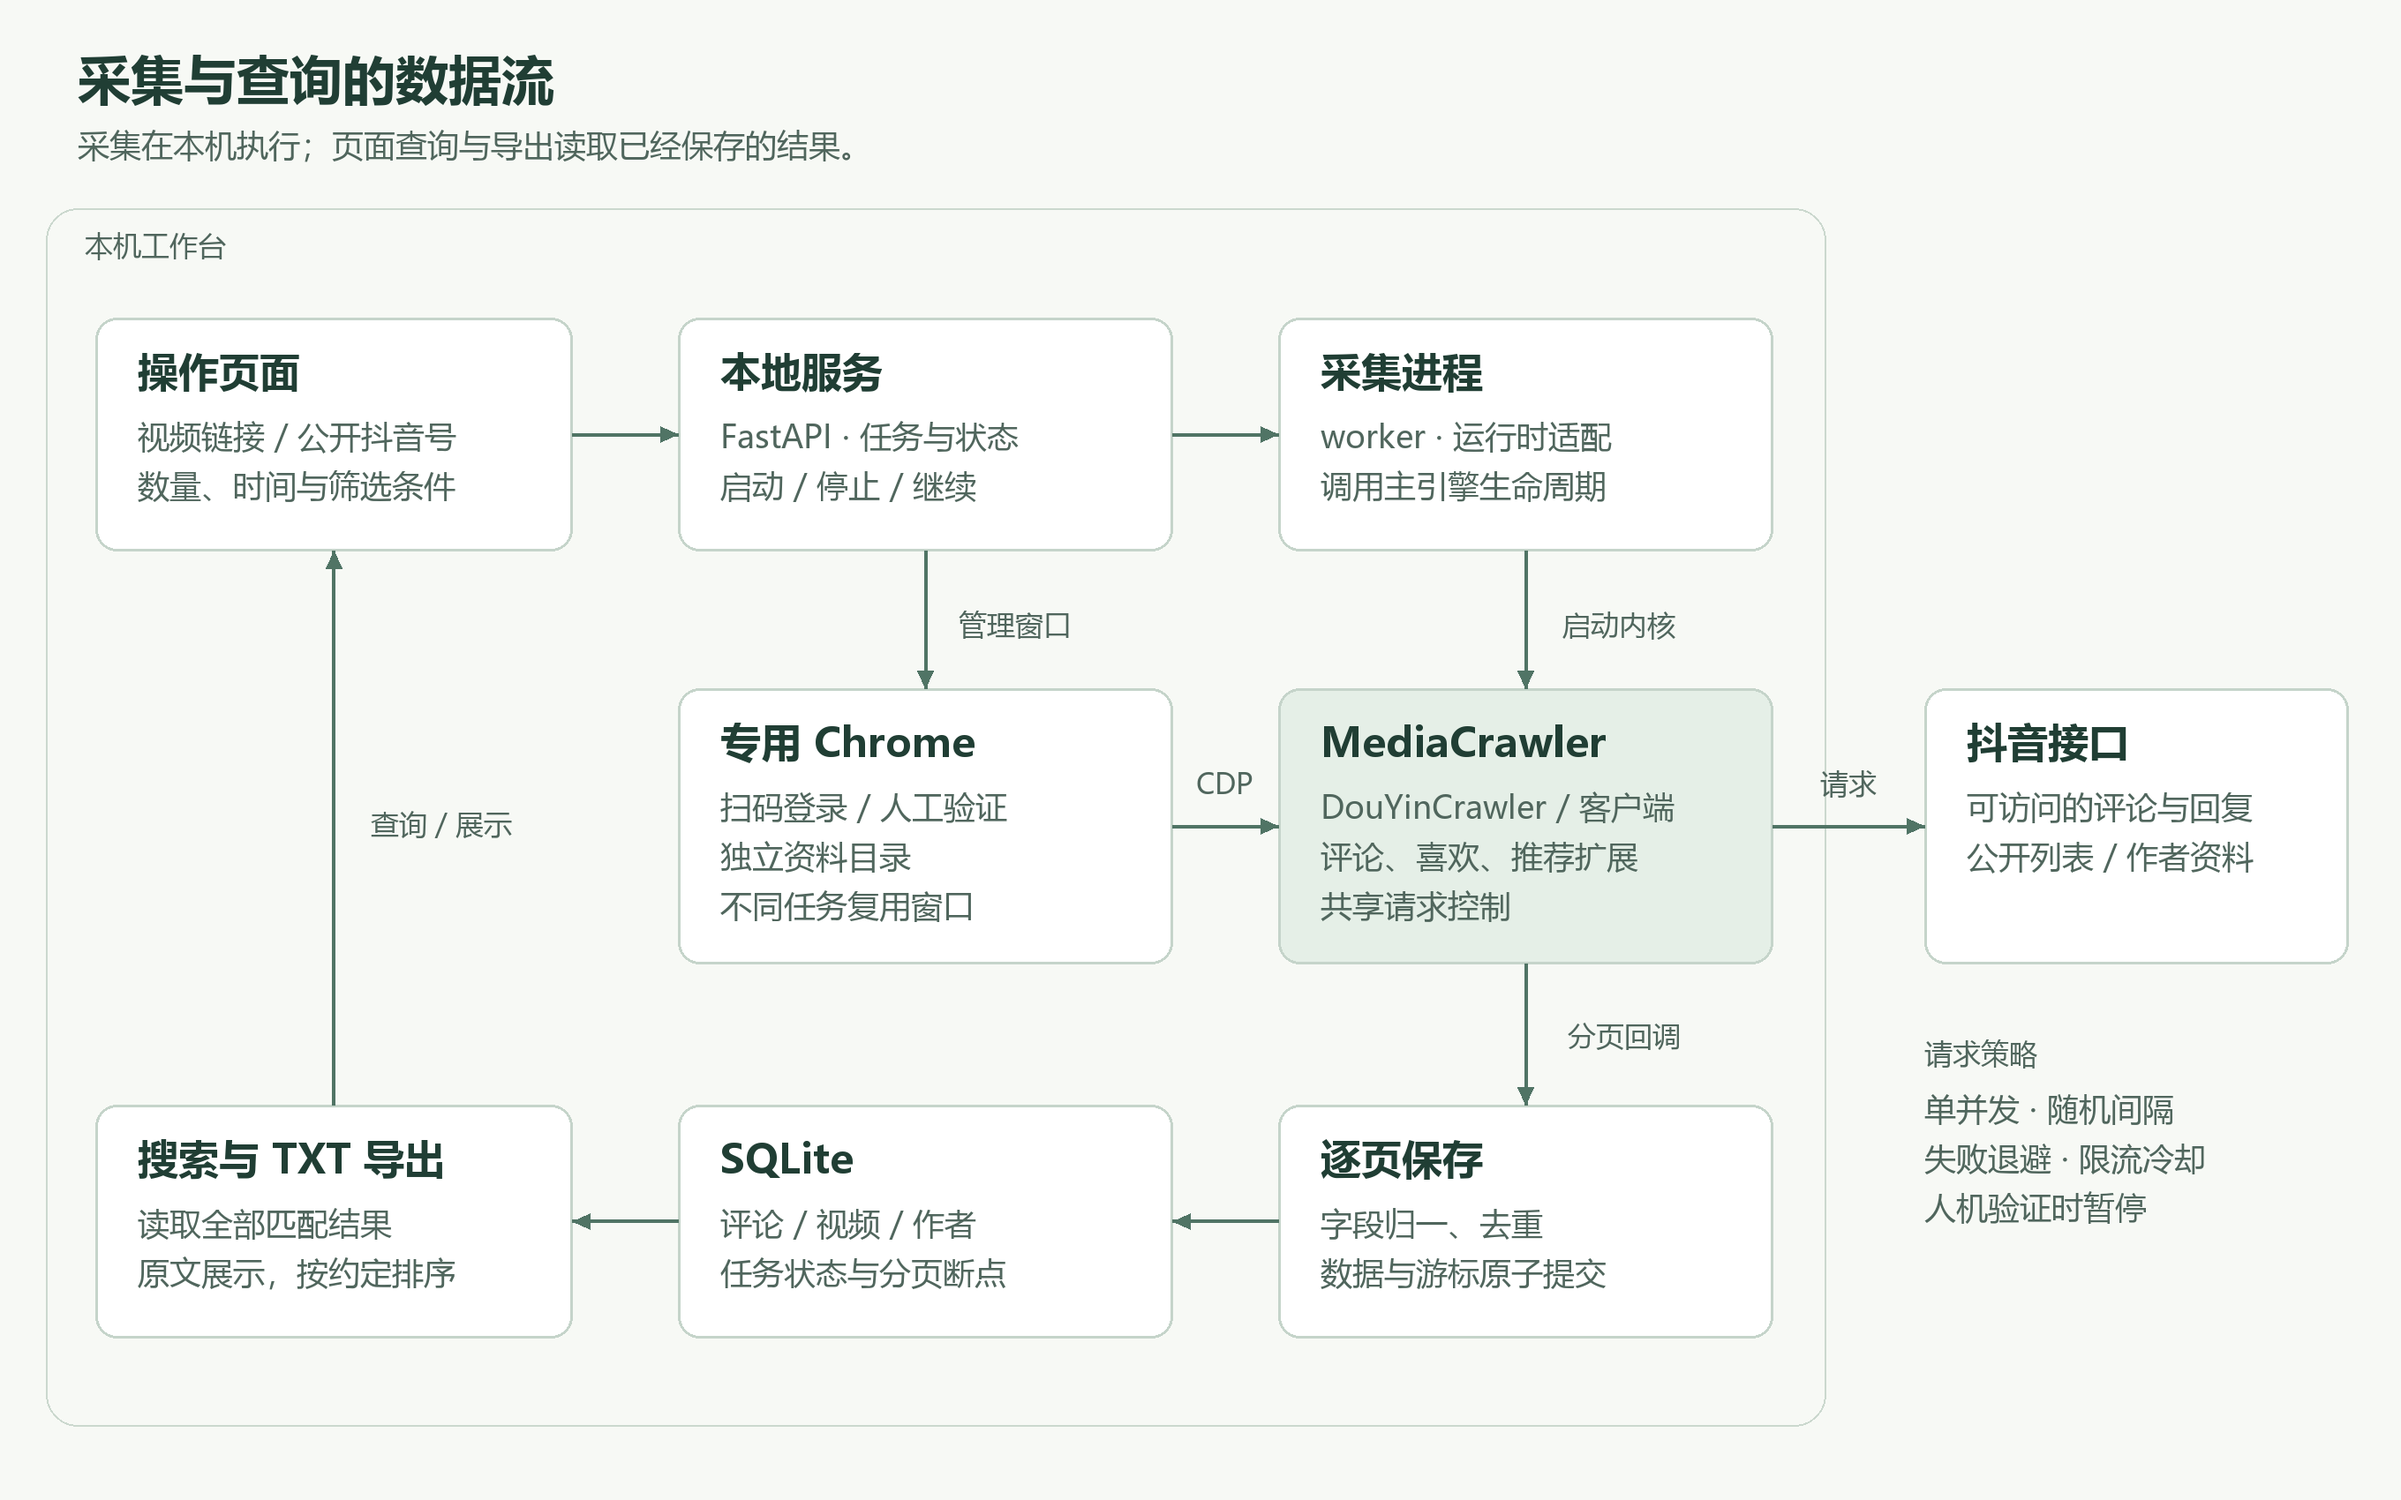
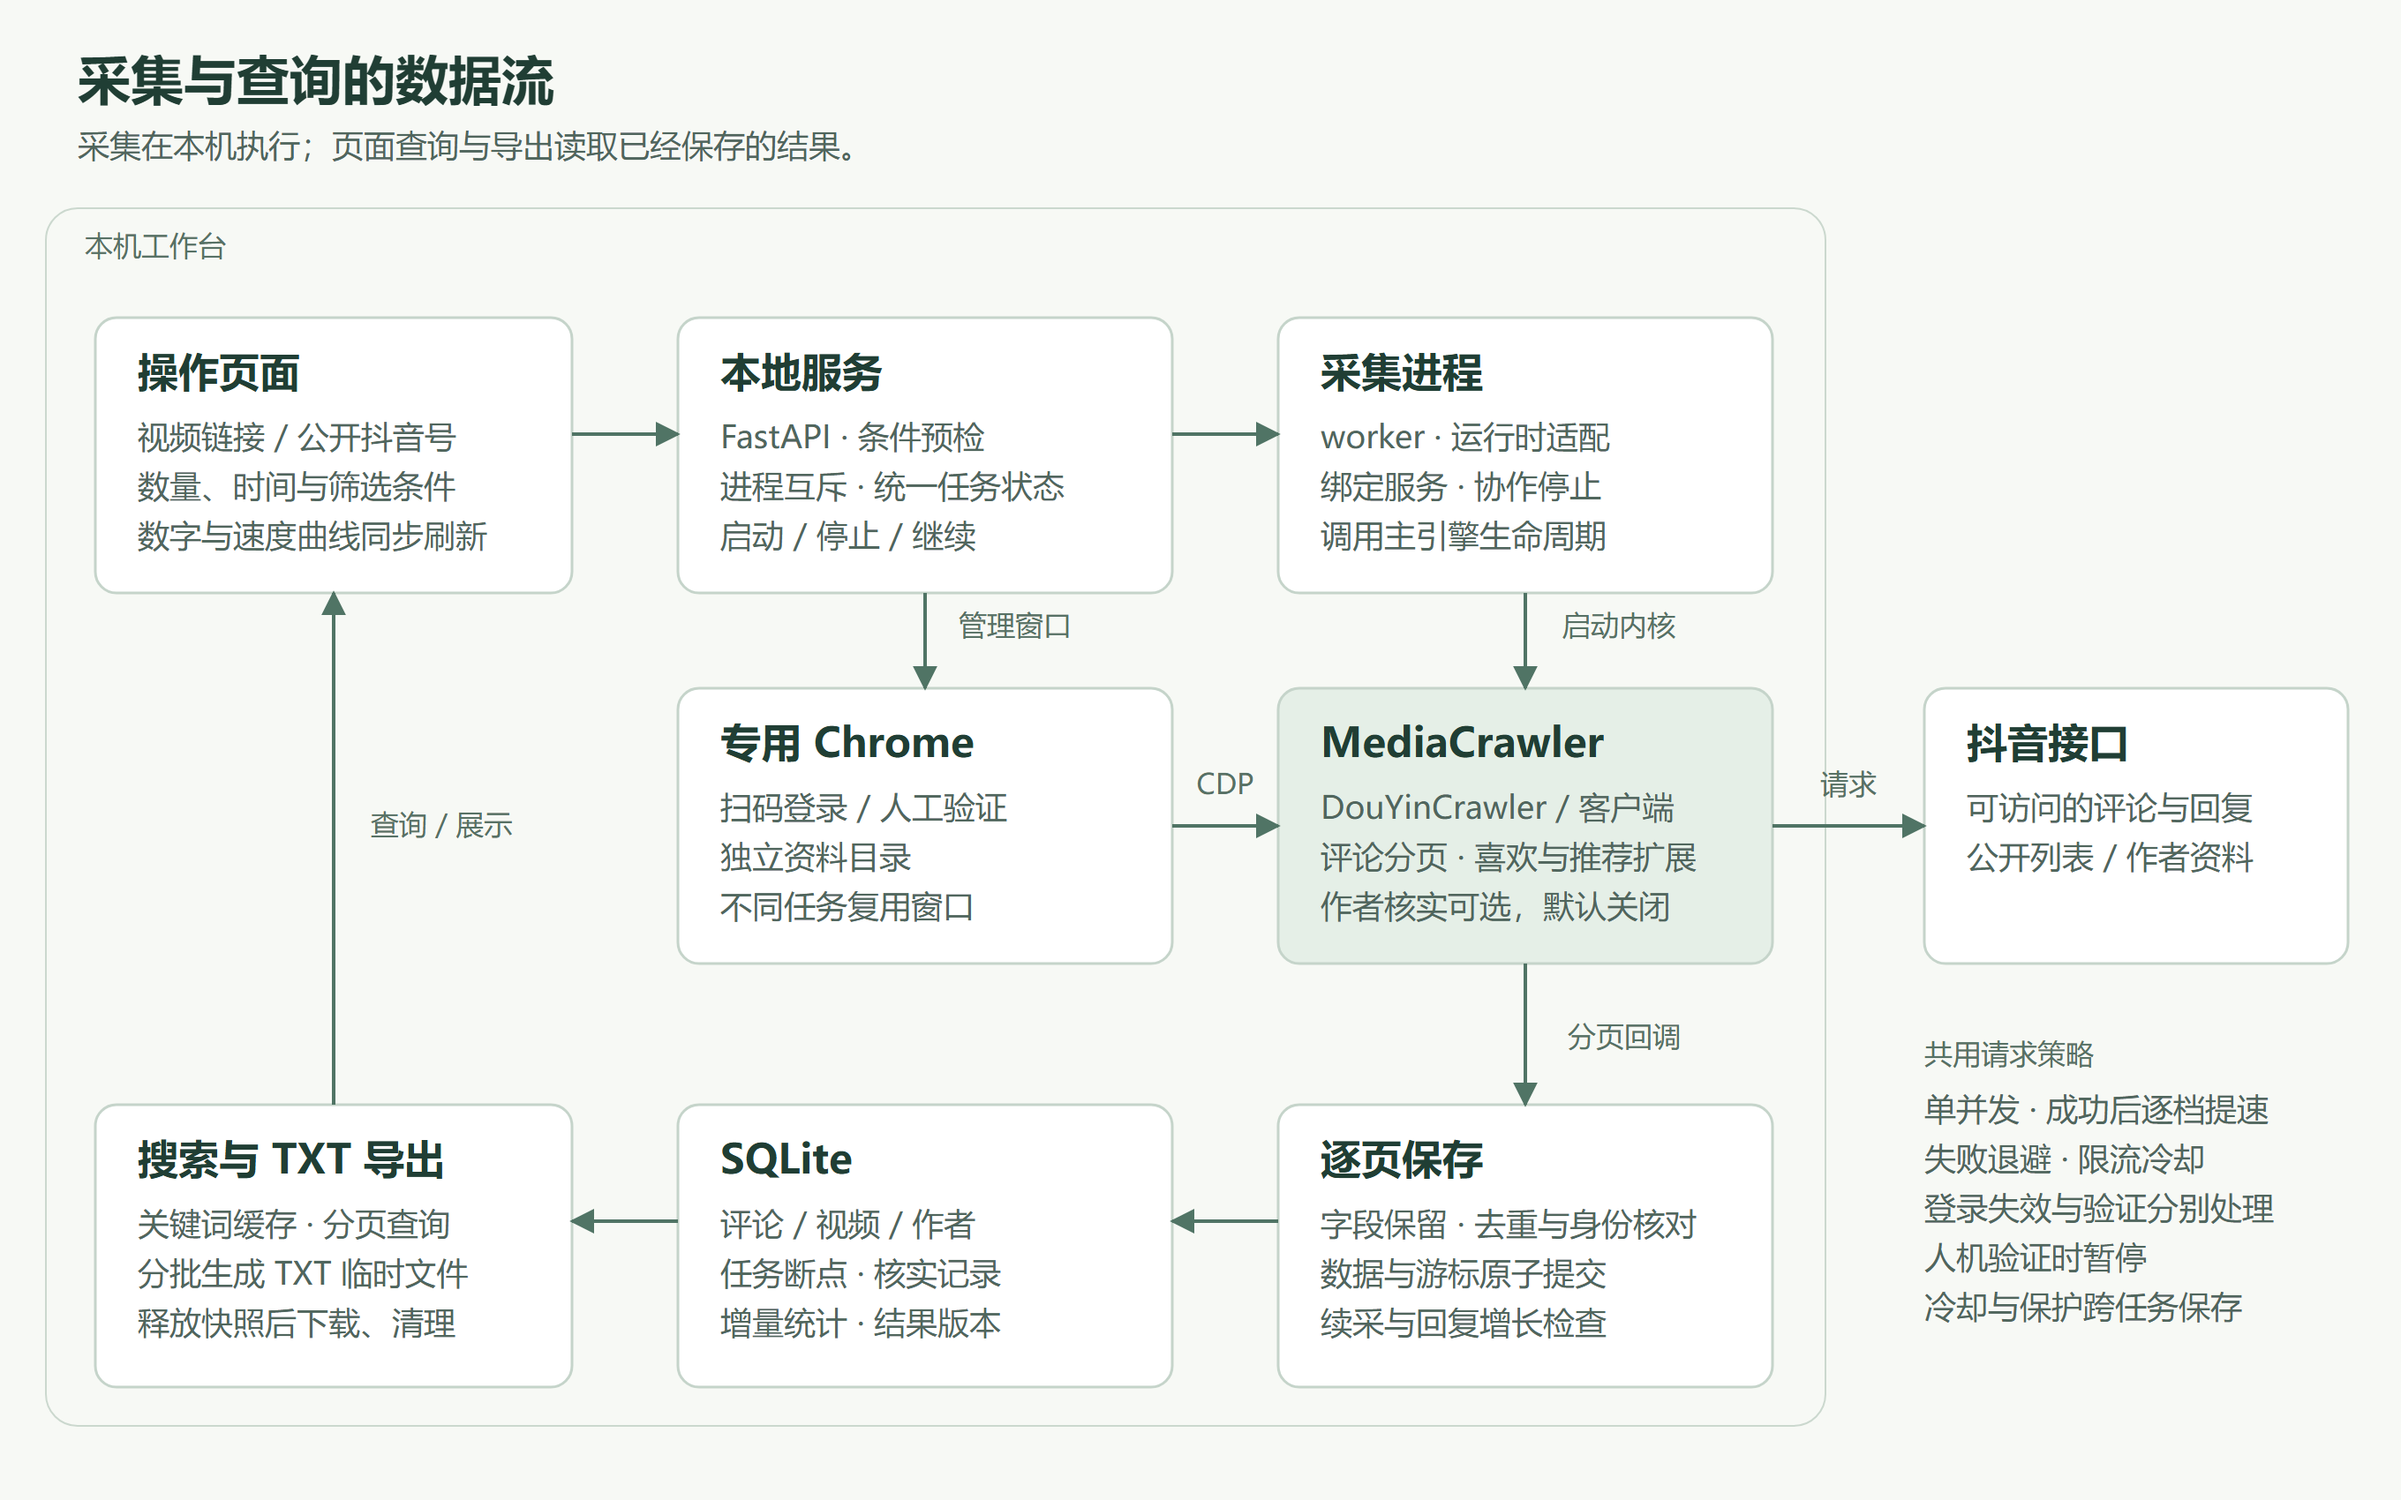
更新采集原理图，补充缓存与分批导出流程
沿用原有配色、卡片布局和箭头关系，更新条件预检、任务管理、作者核实选项、结果版本、关键词缓存及分批 TXT 导出流程。

同步 SVG、PNG 和 README 说明，保留原画布尺寸，检查文字边界与图片引用。

diff --git a/README.md b/README.md
@@ -60,9 +60,11 @@ powershell.exe -NoProfile -ExecutionPolicy Bypass -File .\start.ps1
 
 ## 采集原理
 
-![采集原理：前端创建任务，经本地服务调用 MediaCrawler，逐页保存数据与断点，供搜索和导出使用](docs/images/architecture.png)
+![采集原理：条件预检与任务管理，经 MediaCrawler 采集并逐页保存，作者核实可选；查询复用版本缓存，TXT 分批生成后释放快照再下载](docs/images/architecture.png)
 
 Web 服务管理任务和专用 Chrome，采集 worker 调用 MediaCrawler 的 `DouYinCrawler.start()`。评论走内核的评论分页；喜欢、推荐和作者核实通过扩展接入同一个客户端。每页结果与游标一起写入 SQLite，搜索与导出读取已保存的数据。
+
+关键词查询按结果版本复用匹配缓存，翻页只读取当前页。TXT 在同一个读取快照内分批生成临时文件，关闭快照后再下载；完成、取消或失败后清理临时文件，保留原有导出格式。
 
 内核固定在提交 `5d547f45862ca2d4b404e5a51775879d579b29d4`，兼容补丁为 `workbench.2`。源码随仓库保存，初始化不需要再拉取上游。补丁、原始文件和校验清单见 [vendor/patches](vendor/patches/README.md)。
 
